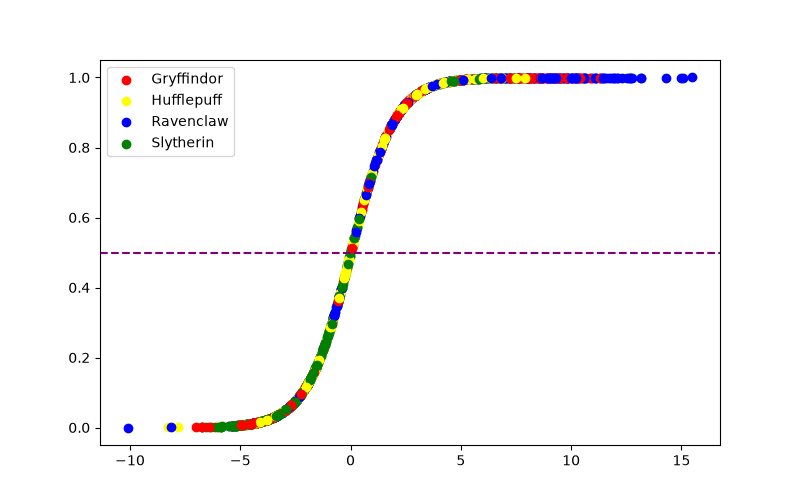
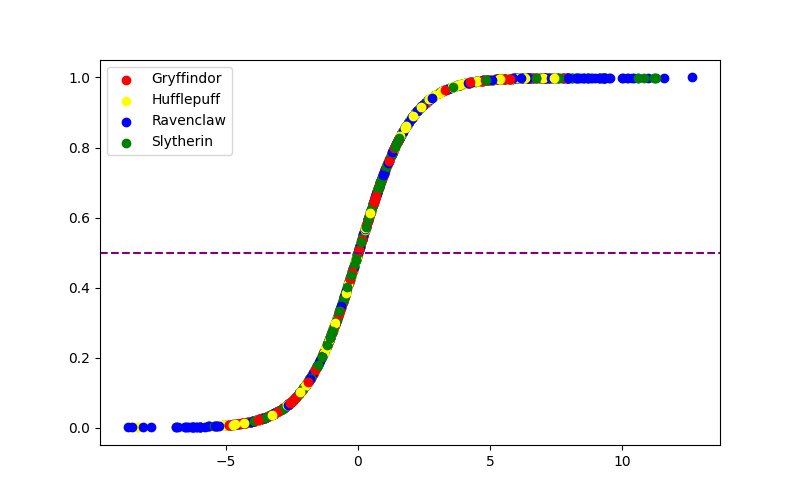
91% accuracy

diff --git a/logreg_train.py b/logreg_train.py
@@ -29,14 +29,14 @@ def train():
 
     df = df.sort_values(by='Hogwarts House')
 
-    summed_df = df.groupby("Hogwarts House", as_index=False).sum()
+    summed_df = df.groupby("Hogwarts House", as_index=False).mean()
     summed_df = normalize_df(summed_df)
 
     w = []
     b = []
     # Generate a random floating-point number between -0.01 and 0.01
-    theta_0 = random.uniform(-0.01, 0.01)
-    theta_1 = random.uniform(-0.01, 0.01)
+    theta_0 = random.uniform(-1, 1)
+    theta_1 = random.uniform(-1, 1)
     for i in range(_len(houses)):
         w.insert(i, [])
         b.insert(i, [])

diff --git a/linear_regression.py b/linear_regression.py
@@ -9,7 +9,7 @@ def minimize_cost(m: int, theta_0: float, theta_1: float, real_score: float,
     # print("real house", real_house)
     # print("real score", real_score) # 13 * 4 real scores = 52 real scores
 
-    minimum = int(- 1 / learning_rate)
+    minimum = int(-1 / learning_rate)
     maximum = int(1 / learning_rate)
 
     for i in range(minimum, maximum, 1):
